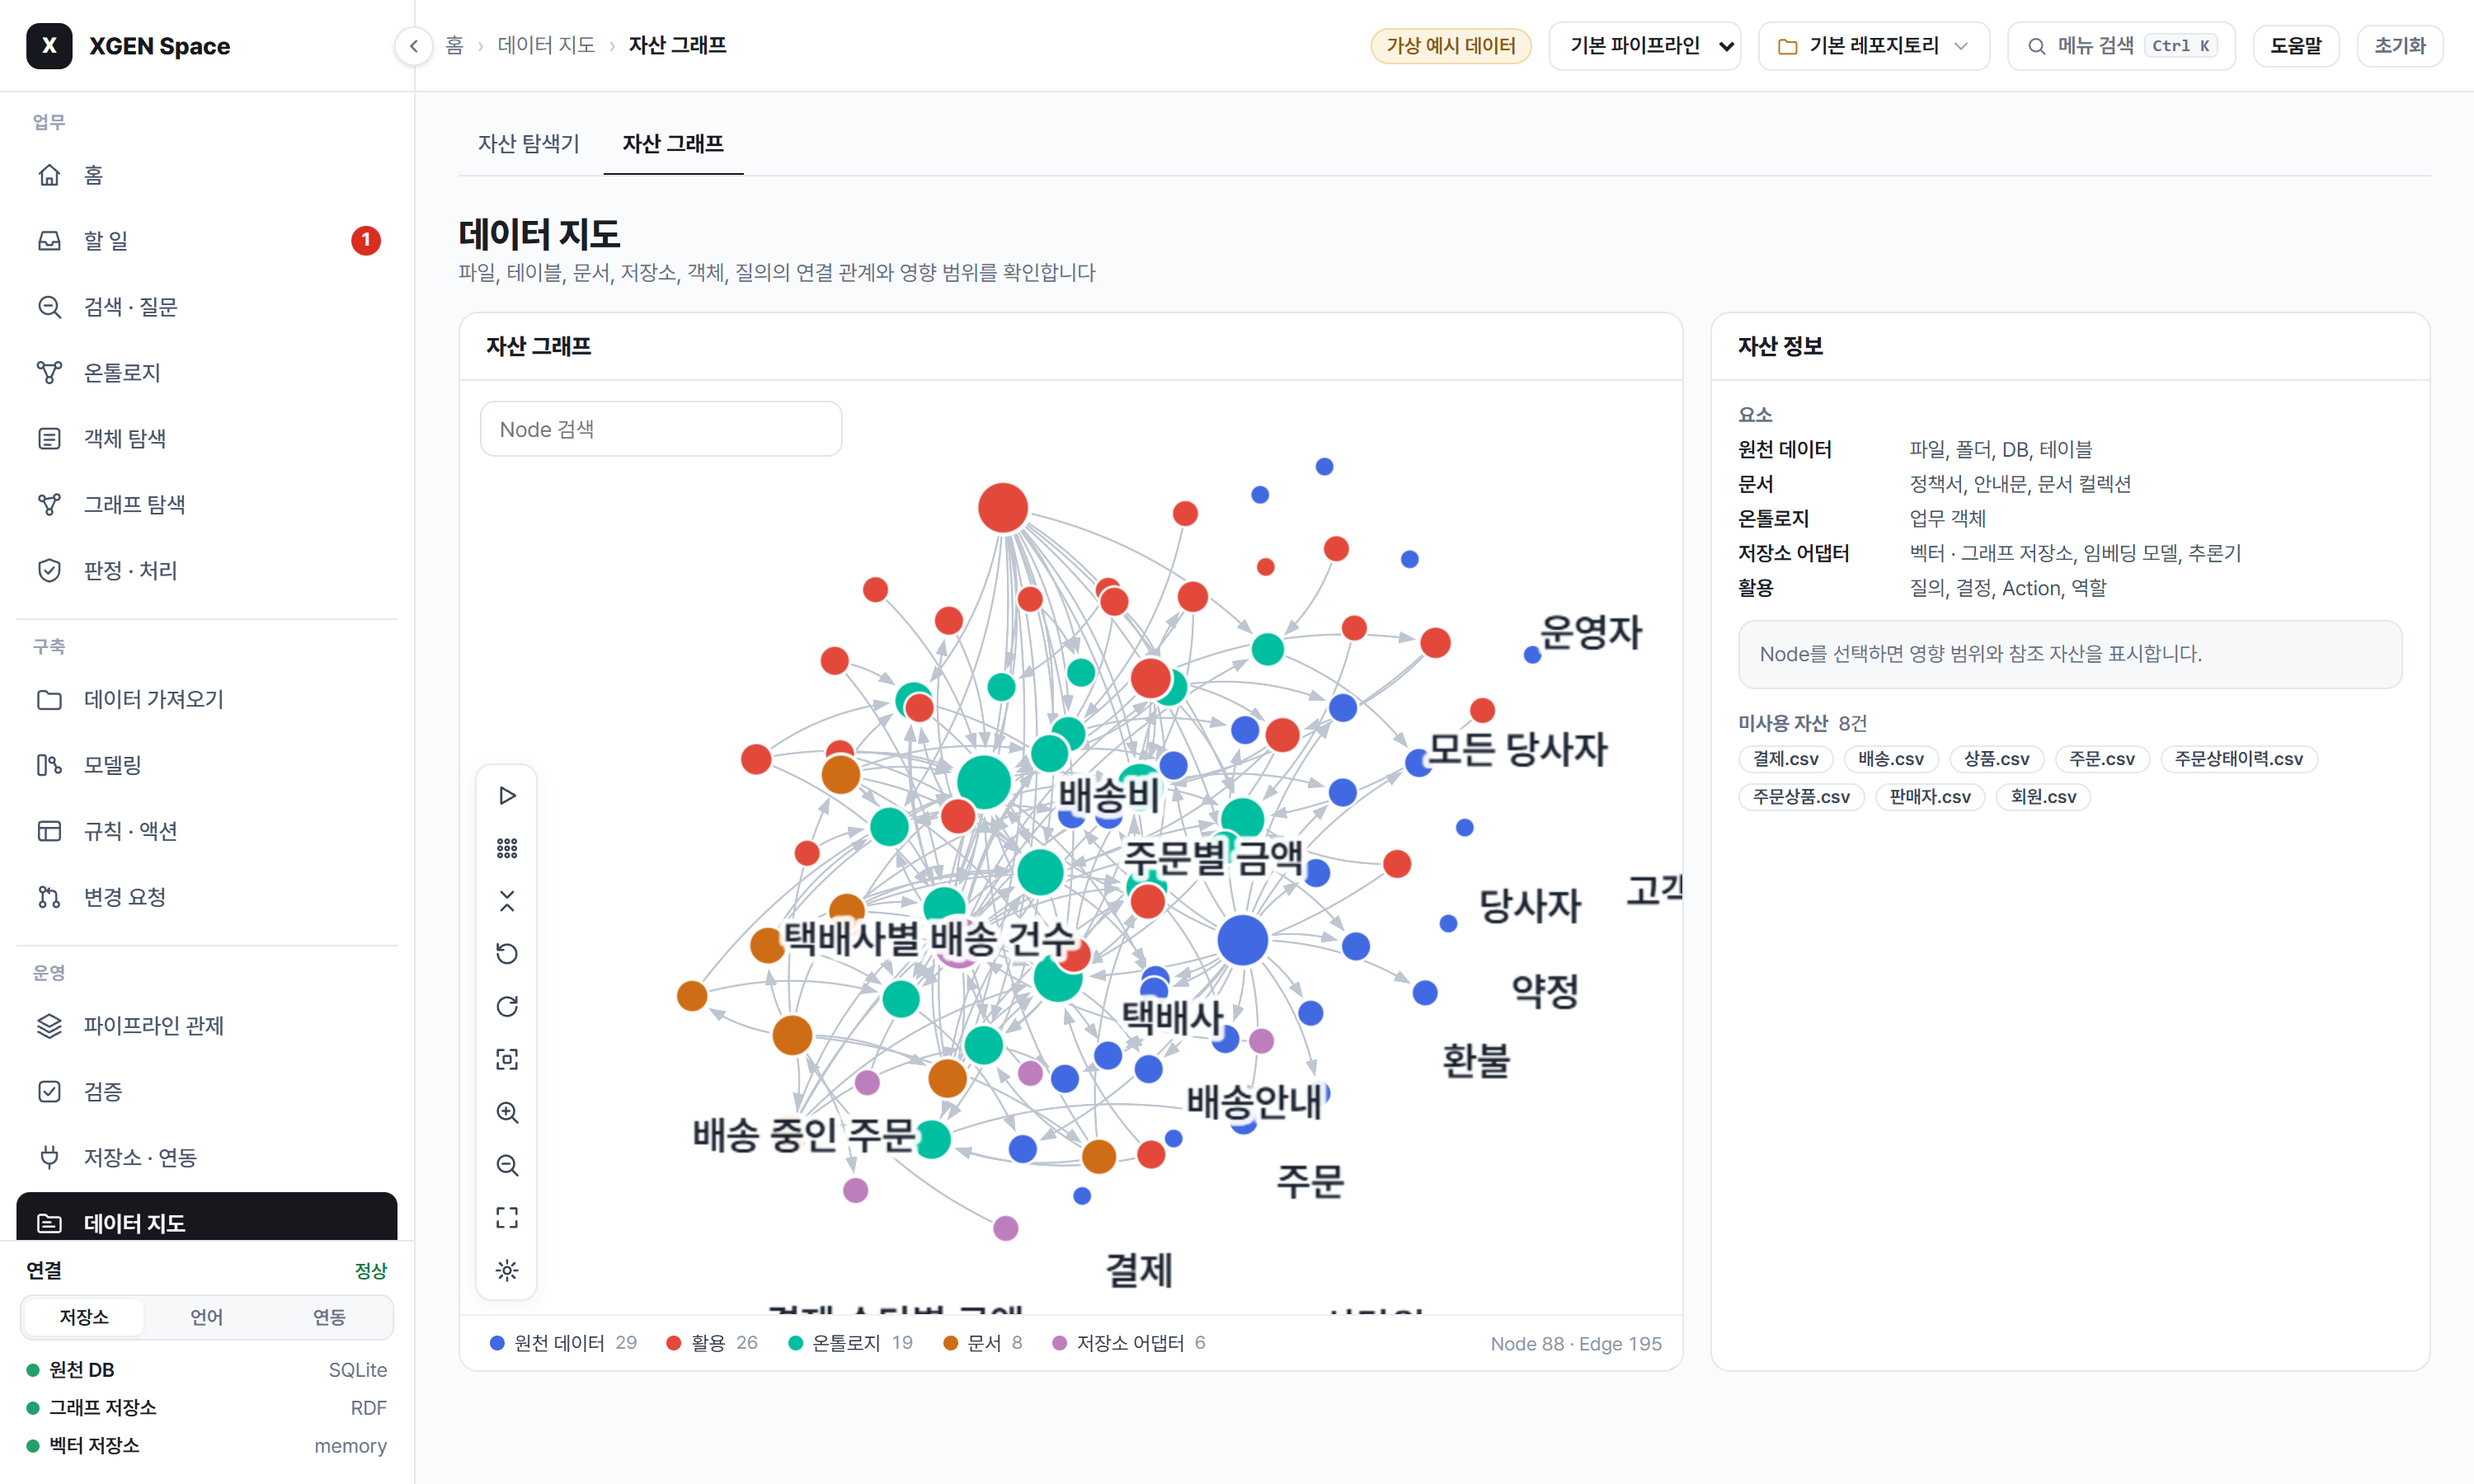
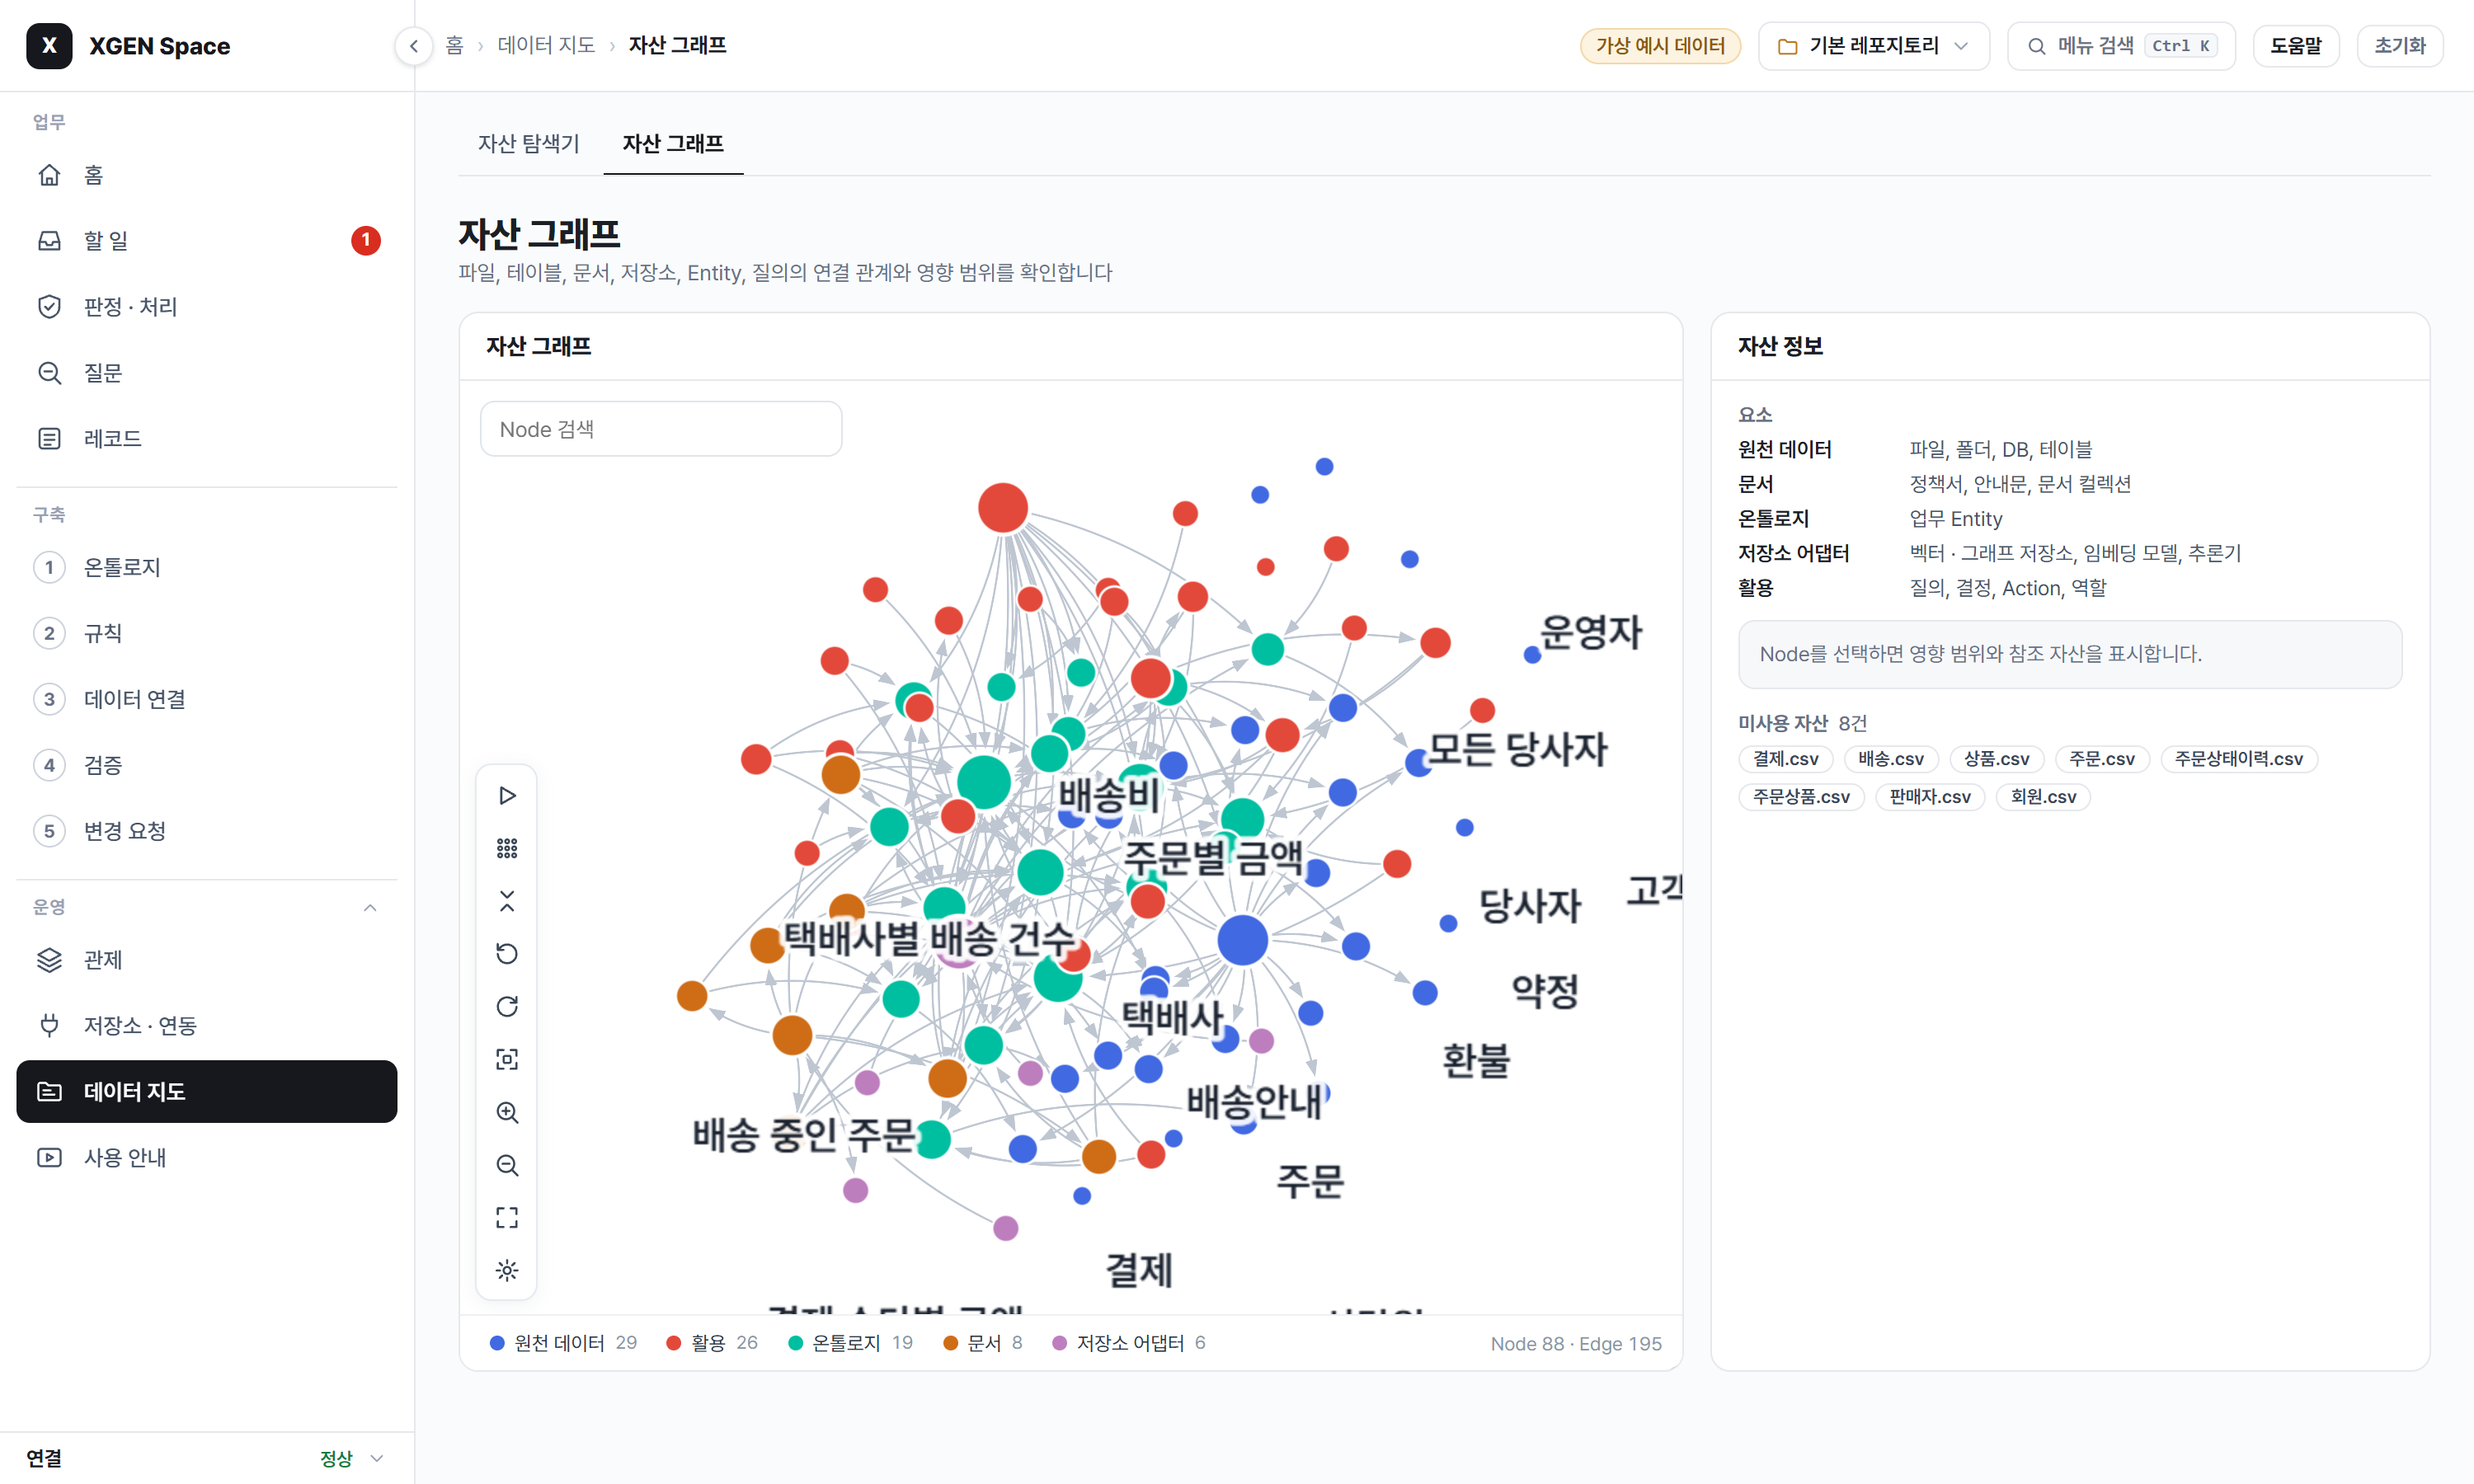
0.16.0: changelog, README screens and words, a decision with no source says so
- CHANGELOG 0.16.0: Objects above Entities, a studio that works with no data
  source, five build steps, less to read on each screen, and the fixes from a
  first-time-user pass.
- README: menu names and the how-to-use walk follow the new sidebar, and the
  define-once example shows areas: and area:. All screenshots re-rendered.
- The decision call caught every KeyError to word it for the page, which also
  caught NoSource (a KeyError) and turned "no source is connected" into a 400.
  It now lets NoSource through so the page gets its 409 and the no-source card.
- Version 0.16.0.

diff --git a/src/xgen_space/web/api.py b/src/xgen_space/web/api.py
@@ -829,6 +829,8 @@ class StudioSession(SpaceMixin, PagesMixin):
         st = self.studio
         try:
             res = st.decide(name, key)
+        except NoSource:  # no rows to read: the page says so with its own answer
+            raise
         except (KeyError, DecisionError, CompileError) as e:  # no such table or record, rules that tie, an unbound link
             raise ValueError(self._decide_text(e)) from None
         table = st.onto.decisions[name]

diff --git a/src/xgen_space/__init__.py b/src/xgen_space/__init__.py
@@ -1,5 +1,5 @@
 """XGEN Space: one domain ontology definition, executed on whatever store or reasoner a deployment has."""
 from xgen_space.model import ModelError, Ontology
 
-__version__ = "0.15.1"
+__version__ = "0.16.0"
 __all__ = ["Ontology", "ModelError", "__version__"]

diff --git a/README.md b/README.md
@@ -69,7 +69,7 @@ tables, and the engine checks what it writes; the rest of the studio runs withou
 | Answers that show their grounds | A decision gives the rule that fired, the clause it cites and the source column of each input. A question counts as grounded only when its answer has all of them and the version, and that share can be a pass condition | `xspace decide examples/library/studio.yaml returnEligibility I1001` |
 | Rules checked against what was decided | Past cases are decided again with the values they had then, and the ones that differ are listed with the rule that fired | `xspace agreement examples/library/studio.yaml` |
 | Changes tried before they count | A new module version runs on a copy of the studio, and it can be approved only when it passes the flow's conditions | `xspace review examples/library/studio.yaml acme-1.1.0.yaml` |
-| Edits that say what they take | Removing a property or a relation in the modelling workspace takes out the queries, decisions and questions that need it, and lists them before anything is filed; an element carries a status (초안 · 사용 중 · 폐기 예정) | The page's 모델링 › 작업 공간 |
+| Edits that say what they take | Removing a property or a relation in the modelling workspace takes out the queries, decisions and questions that need it, and lists them before anything is filed; an element carries a status (초안 · 사용 중 · 폐기 예정) | The page's 구축 › 온톨로지 › 작업 공간 |
 | Agents inside limits | Every MCP call runs inside the role's row filters and masks. An agent files a request, and nothing is written until a person approves it | `xspace mcp examples/commerce/studio.yaml --role customer_agent --principal customer_id=C001` |
 | Nothing to run first | The core has no required dependencies. SQLite and an in-process RDF graph are enough to try everything, and values stay in the source unless you ask for a projection | `python examples/commerce/demo.py` |
 
@@ -555,7 +555,7 @@ failure is only gathered under another when what failed reads what is broken. Ch
 a bar saying which problem this is and what is next, and when the change goes in the board measures again and the issue closes.
 When each opened and closed is written to the journal.
 
-파이프라인 관제, under 운영, draws the pipeline as a building: raw data at the bottom, then conversion,
+관제, under 운영, draws the pipeline as a building: raw data at the bottom, then conversion,
 the ontology, the storage adapters, its use, and verification at the top, with the data climbing one belt through the floors.
 
 <p align="center">
@@ -916,8 +916,8 @@ module files a change request and shows its review; `xspace review studio.yaml m
 
 ## Manage objects, properties and relations
 
-The modelling workspace (구축 › 모델링 › 작업 공간) is where the definition is changed: the objects of every module as
-cards on a canvas with their keys, properties and named relations; a tree by module with what is wrong; and the picked
+The modelling workspace (구축 › 온톨로지 › 작업 공간) is where the definition is changed: the Entities as cards on a canvas
+with their keys, properties and named relations, grouped by Object; a tree by Object (or by module) with what is wrong; and the picked
 element's form, data, uses, YAML and comments, each a view of the same element. One switch away the same objects,
 properties and relations stand in three columns with a form under the picked row. Every element carries a status
 (초안 · 사용 중 · 폐기 예정), and a deprecated element that something still reads says so where its uses are listed. The
@@ -951,7 +951,7 @@ filter or mask it. What the module defines itself is left for a person to fix, s
 is refused. On the page the edits are filed as one change request; a request the trial stops comes back with its
 review (the conditions it failed and what the database check found), and the edits stay to be fixed.
 
-Rules, named values, states, actions and roles go the same way, on forms: 규칙 · 액션 › 규칙 edits a rule's conditions and outcome input by
+Rules, named values, states, actions and roles go the same way, on forms: 규칙 › 결정표 edits a rule's conditions and outcome input by
 input, and a rule from a standard is replaced over it (`rules_replace`, `rules_remove`) without touching the standard. Every edit lands in
 the workspace module, is tried on a copy and is approved like any other change. A library keeps its versions: open an earlier one in the
 module editor and file it, and it comes back as a new version. With `--library-write`, what is switched on stays on across a restart; if a

diff --git a/CHANGELOG.md b/CHANGELOG.md
@@ -1,5 +1,40 @@
 # Changelog
 
+## 0.16.0
+
+The page is rebuilt around how a space is built and used, with less to read on it, and a definition no longer needs data.
+
+- **Objects above Entities.** A definition has three levels: an Object (`areas:`), a top-level classification with a
+  definition of its own; the Entities filed under it (the object types, `area:` on each); and their properties. A module
+  defines, extends and removes Objects like any element; the workspace adds, changes and removes them (`add_area`,
+  `update_area`, `delete_area`, refused while an Entity is filed under it), and an Entity's form picks its Object. The
+  workspace tree, the canvas and the whole-ontology view group by Object (or by module, one switch away). Each Entity
+  shows how far it has come: L0 개념, L1 논리, L2 연결, L3 검증 (`level` in `manage`). OWL export writes Objects as
+  `skos:Collection`s and import reads them back. The page says Entity for the concepts under an Object.
+- **No data source needed.** A studio with no backend loads and serves: definitions, rules, decisions on typed values,
+  questions that need no rows, document search, change requests and versions all work. What needs rows answers in its
+  own shape with `no_source` (lists empty, presses 409 with the reason), pass conditions that need data are not
+  measured and do not hold a definition-only change back, and `state` says `source: {connected, name, kind}`.
+  `xspace new <dir>` writes an empty studio; `xspace decide … --input name=value` decides on typed values. The page
+  says 원천 미연결 at the top, decides on typed values, and marks questions it could not ask.
+- **Five build steps.** The sidebar's 구축 section is the five steps a space is built in, numbered: 온톨로지 (Ontology
+  manager), 규칙 (Semantic layer), 데이터 연결 (Data binder, optional), 검증 (QA), 변경 요청. The home shows them with
+  where the space stands, the next step in words, what the space is made of in one line, and three ways to start when
+  nothing is defined (by hand, from a standard module, from documents or data). `build/steps` reports the five.
+- **Less to read.** The sidebar shows ten items; 운영 and the connection card fold to one line. A card's nice-to-know
+  notes fold behind an (i) on its title (the help drawer can show them all). Passing validation questions are one line
+  and agreeing backends a count, library rows one line each, flow cards and the draft's settings folded, code names
+  left off the screens people use the ontology on. Menu names, tab names and page titles agree. `Ctrl K` reaches an
+  Entity's definition, a decision table or a query by name.
+- **Fixed from a first-time-user test.** Typing in the new-property, relation and state forms is no longer lost when
+  moving between fields; Enter saves a rule cell and Escape cancels; a simulation or decision the engine refuses is said
+  in Korean with the record and what to do; the record search keeps its words across types and offers the types that
+  hold them; a node opens its relations on a double press and a small first hop opens by itself; a change filed from
+  the workspace is compared field by field, also after it is applied; a lone visitor's 변경 요청 says 검토 후 적용; the
+  draft's last step settles the tables it waits on where it stands; applying a draft says which pipeline it switched
+  to; a failed 할 일 load says so with a retry; the new-Entity and property forms ask for a display name first and
+  suggest the English name; a citation chip opens the rule that cites it.
+
 ## 0.15.1
 
 - A chip that names a module, a module kind or a rule leads to it. In the library the 종류 cell and the 적용 구성 layer
